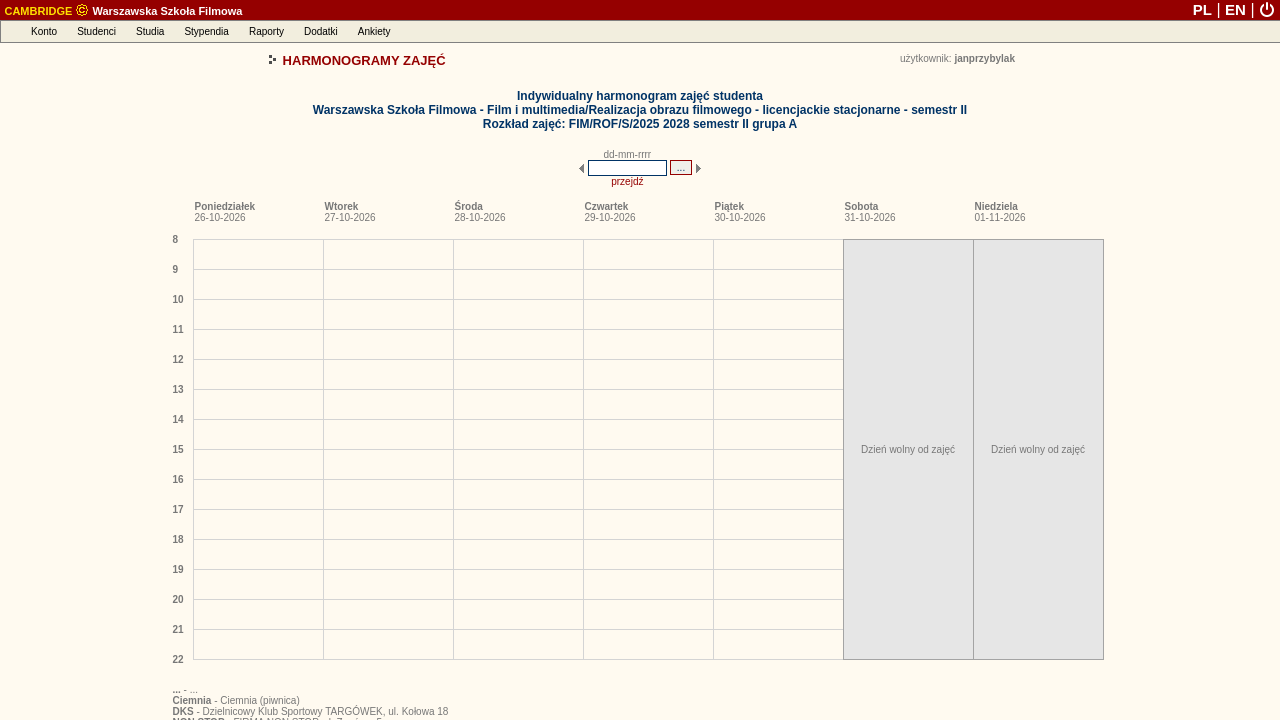
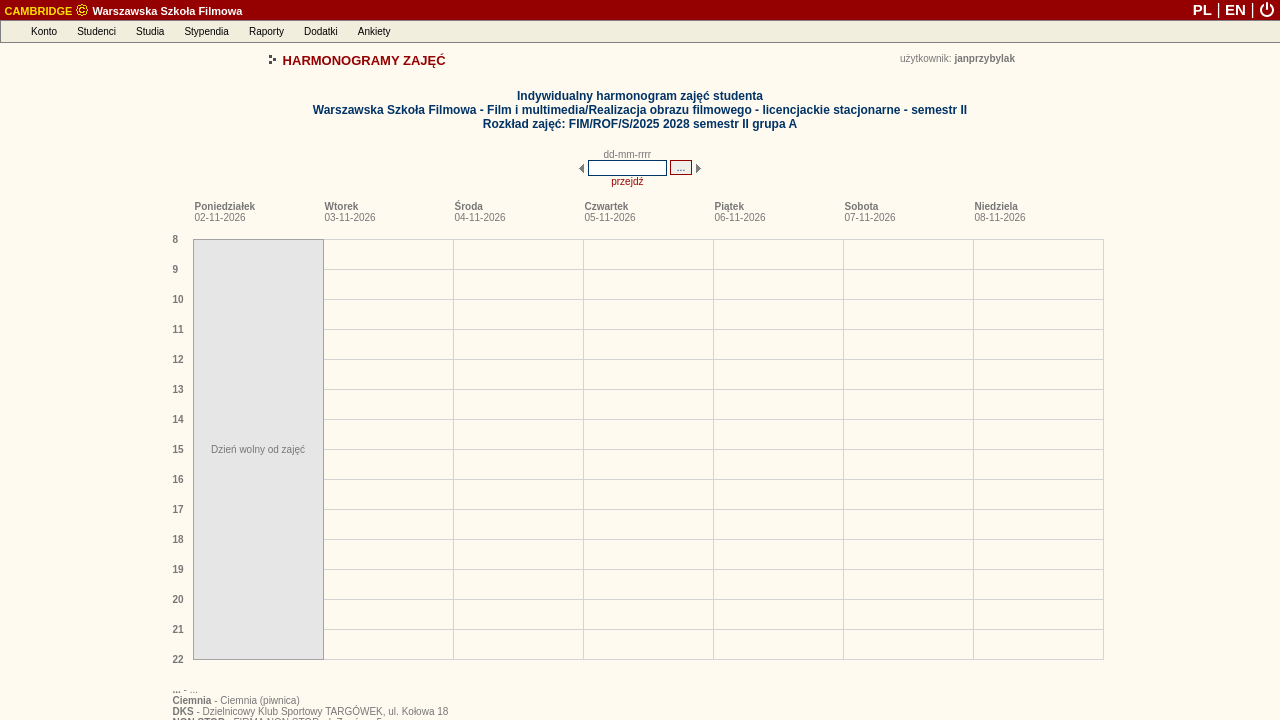
deploy: 8388f10947971c2f889917b94371ad6a4cd86213

Changed region(s): [[0.6562, 0.3056, 0.875, 0.9167], [0.125, 0.3056, 0.25, 0.9167]]

diff --git a/debug_harmonogram_page.html b/debug_harmonogram_page.html
@@ -163,8 +163,8 @@
 
 
 
-<link rel="stylesheet" type="text/css" href="/palio/html.run?_Instance=cambridge&amp;_PageID=4&amp;_SessionID=1731044&amp;_SessionKey=1998233235&amp;ZoomView=&amp;DisplayMode=&amp;_CheckSum=-1387384979">
-<script language="javascript" type="text/javascript" src="/palio/html.run?_Instance=cambridge&amp;_PageID=5&amp;_SessionID=1731044&amp;_SessionKey=1998233235&amp;_CheckSum=1123203707"></script>
+<link rel="stylesheet" type="text/css" href="/palio/html.run?_Instance=cambridge&amp;_PageID=4&amp;_SessionID=1731128&amp;_SessionKey=2104638572&amp;ZoomView=&amp;DisplayMode=&amp;_CheckSum=-1321546283">
+<script language="javascript" type="text/javascript" src="/palio/html.run?_Instance=cambridge&amp;_PageID=5&amp;_SessionID=1731128&amp;_SessionKey=2104638572&amp;_CheckSum=909789459"></script>
 
 
 
@@ -354,9 +354,9 @@ CambridgeMenuBar = new jsDOMenuBar("absolute", true)
 
 AccountMenu=new jsDOMenu(200, "", "absolute", false);
 
-AccountMenu.addMenuItem(new menuItem("Zmiana hasła", "", "/palio/html.run?_Instance=cambridge&amp;_PageID=11&amp;_SessionID=1731044&amp;_SessionKey=1998233235&amp;_CheckSum=-1142729748"));
+AccountMenu.addMenuItem(new menuItem("Zmiana hasła", "", "/palio/html.run?_Instance=cambridge&amp;_PageID=11&amp;_SessionID=1731128&amp;_SessionKey=2104638572&amp;_CheckSum=-1356143996"));
 
-  AccountMenu.addMenuItem(new menuItem("Komunikator", "", "/palio/html.run?_Instance=cambridge&amp;_PageID=180&amp;_SessionID=1731044&amp;_SessionKey=1998233235&amp;_CheckSum=-1947689529"));
+  AccountMenu.addMenuItem(new menuItem("Komunikator", "", "/palio/html.run?_Instance=cambridge&amp;_PageID=180&amp;_SessionID=1731128&amp;_SessionKey=2104638572&amp;_CheckSum=2133863519"));
 
 
 
@@ -369,7 +369,7 @@ AccountMenu.addMenuItem(new menuItem("Yammer", "", "https://www.yammer.com/onlin
 
 AccountMenu.addMenuItem(new menuItem("-"));
 
-AccountMenu.addMenuItem(new menuItem("Wylogowanie", "", "https://student.szkolafilmowa.pl/palio/html.run?_Instance=cambridge&amp;_PageID=10012&amp;_Action=Logout&amp;_SessionID=1731044&amp;_SessionKey=1998233235"));
+AccountMenu.addMenuItem(new menuItem("Wylogowanie", "", "https://student.szkolafilmowa.pl/palio/html.run?_Instance=cambridge&amp;_PageID=10012&amp;_Action=Logout&amp;_SessionID=1731128&amp;_SessionKey=2104638572"));
 
 CambridgeMenuBar.addMenuBarItem(new menuBarItem("Konto", AccountMenu));
 
@@ -382,12 +382,12 @@ StudentsMenu=new jsDOMenu(320, "", "absolute", false);
 
 
 
-StudentsMenu.addMenuItem(new menuItem("Moje dane", "", "/palio/html.run?_Instance=cambridge&amp;_PageID=185&amp;_SessionID=1731044&amp;_SessionKey=1998233235&amp;_CheckSum=1284116834"));
+StudentsMenu.addMenuItem(new menuItem("Moje dane", "", "/palio/html.run?_Instance=cambridge&amp;_PageID=185&amp;_SessionID=1731128&amp;_SessionKey=2104638572&amp;_CheckSum=1070702586"));
 
 
 
 
-StudentsMenu.addMenuItem(new menuItem("Moje indeksy", "", "/palio/html.run?_Instance=cambridge&amp;_PageID=186&amp;_SessionID=1731044&amp;_SessionKey=1998233235&amp;_CheckSum=-646502271"));
+StudentsMenu.addMenuItem(new menuItem("Moje indeksy", "", "/palio/html.run?_Instance=cambridge&amp;_PageID=186&amp;_SessionID=1731128&amp;_SessionKey=2104638572&amp;_CheckSum=-859916519"));
 
 
 
@@ -426,7 +426,7 @@ StudiesMenu=new jsDOMenu(250, "", "absolute", false);
 
 
 
-StudiesMenu.addMenuItem(new menuItem("Moje plany studiów", "", "/palio/html.run?_Instance=cambridge&amp;_PageID=258&amp;_SessionID=1731044&amp;_SessionKey=1998233235&amp;_CheckSum=-952910885"));
+StudiesMenu.addMenuItem(new menuItem("Moje plany studiów", "", "/palio/html.run?_Instance=cambridge&amp;_PageID=258&amp;_SessionID=1731128&amp;_SessionKey=2104638572&amp;_CheckSum=-1166325133"));
 
 
 
@@ -434,13 +434,13 @@ StudiesMenu.addMenuItem(new menuItem("Moje plany studiów", "", "/palio/html.run
 
 
 
-StudiesMenu.addMenuItem(new menuItem("Harmonogramy zajęć", "", "/palio/html.run?_Instance=cambridge&amp;_PageID=95&amp;_SessionID=1731044&amp;_SessionKey=1998233235&amp;_CheckSum=1967527536"));
+StudiesMenu.addMenuItem(new menuItem("Harmonogramy zajęć", "", "/palio/html.run?_Instance=cambridge&amp;_PageID=95&amp;_SessionID=1731128&amp;_SessionKey=2104638572&amp;_CheckSum=1754113288"));
 
-StudiesMenu.addMenuItem(new menuItem("Harmonogramy moich zajęć", "", "/palio/html.run?_Instance=cambridge&amp;_PageID=191&amp;_SessionID=1731044&amp;_SessionKey=1998233235&amp;_CheckSum=697008551"));
+StudiesMenu.addMenuItem(new menuItem("Harmonogramy moich zajęć", "", "/palio/html.run?_Instance=cambridge&amp;_PageID=191&amp;_SessionID=1731128&amp;_SessionKey=2104638572&amp;_CheckSum=483594303"));
 
-StudiesMenu.addMenuItem(new menuItem("Harmonogramy innych zajęć", "", "/palio/html.run?_Instance=cambridge&amp;_PageID=248&amp;_SessionID=1731044&amp;_SessionKey=1998233235&amp;_CheckSum=-1233260774"));
+StudiesMenu.addMenuItem(new menuItem("Harmonogramy innych zajęć", "", "/palio/html.run?_Instance=cambridge&amp;_PageID=248&amp;_SessionID=1731128&amp;_SessionKey=2104638572&amp;_CheckSum=-1446675022"));
 
-StudiesMenu.addMenuItem(new menuItem("Harmonogramy zajętości sal", "", "/palio/html.run?_Instance=cambridge&amp;_PageID=269&amp;_SessionID=1731044&amp;_SessionKey=1998233235&amp;_CheckSum=1691787195"));
+StudiesMenu.addMenuItem(new menuItem("Harmonogramy zajętości sal", "", "/palio/html.run?_Instance=cambridge&amp;_PageID=269&amp;_SessionID=1731128&amp;_SessionKey=2104638572&amp;_CheckSum=1478372947"));
 
 
 
@@ -470,9 +470,9 @@ CambridgeMenuBar.addMenuBarItem(new menuBarItem("Studia", StudiesMenu));
 ScholarshipsMenu=new jsDOMenu(230, "", "absolute", false);
 
 
-ScholarshipsMenu.addMenuItem(new menuItem("Moje stypendia", "", "/palio/html.run?_Instance=cambridge&amp;_PageID=187&amp;_SessionID=1731044&amp;_SessionKey=1998233235&amp;_CheckSum=1717845920"));
+ScholarshipsMenu.addMenuItem(new menuItem("Moje stypendia", "", "/palio/html.run?_Instance=cambridge&amp;_PageID=187&amp;_SessionID=1731128&amp;_SessionKey=2104638572&amp;_CheckSum=1504431672"));
 
-ScholarshipsMenu.addMenuItem(new menuItem("Mój numer rachunku", "", "/palio/html.run?_Instance=cambridge&amp;_PageID=380&amp;_SessionID=1731044&amp;_SessionKey=1998233235&amp;_CheckSum=-1745865595"));
+ScholarshipsMenu.addMenuItem(new menuItem("Mój numer rachunku", "", "/palio/html.run?_Instance=cambridge&amp;_PageID=380&amp;_SessionID=1731128&amp;_SessionKey=2104638572&amp;_CheckSum=-1959279843"));
 
 
 
@@ -482,9 +482,9 @@ ScholarshipsMenu.addMenuItem(new menuItem("Mój numer rachunku", "", "/palio/htm
 ScholarshipsMenu.addMenuItem(new menuItem("-"));
 
 
-ScholarshipsMenu.addMenuItem(new menuItem("Fundusze stypendialne", "", "/palio/html.run?_Instance=cambridge&amp;_PageID=54&amp;_SessionID=1731044&amp;_SessionKey=1998233235&amp;_CheckSum=-1518220211"));
+ScholarshipsMenu.addMenuItem(new menuItem("Fundusze stypendialne", "", "/palio/html.run?_Instance=cambridge&amp;_PageID=54&amp;_SessionID=1731128&amp;_SessionKey=2104638572&amp;_CheckSum=-1731634459"));
 
-ScholarshipsMenu.addMenuItem(new menuItem("Rodzaje stypendiów", "", "/palio/html.run?_Instance=cambridge&amp;_PageID=55&amp;_SessionID=1731044&amp;_SessionKey=1998233235&amp;_CheckSum=846127980"));
+ScholarshipsMenu.addMenuItem(new menuItem("Rodzaje stypendiów", "", "/palio/html.run?_Instance=cambridge&amp;_PageID=55&amp;_SessionID=1731128&amp;_SessionKey=2104638572&amp;_CheckSum=632713732"));
 
 
 
@@ -495,7 +495,7 @@ CambridgeMenuBar.addMenuBarItem(new menuBarItem("Stypendia", ScholarshipsMenu));
 ReportsMenu=new jsDOMenu(200, "", "absolute", false);
 
 
-ReportsMenu.addMenuItem(new menuItem("Generowanie raportów", "", "/palio/html.run?_Instance=cambridge&amp;_PageID=68&amp;_SessionID=1731044&amp;_SessionKey=1998233235&amp;_CheckSum=-370412150"));
+ReportsMenu.addMenuItem(new menuItem("Generowanie raportów", "", "/palio/html.run?_Instance=cambridge&amp;_PageID=68&amp;_SessionID=1731128&amp;_SessionKey=2104638572&amp;_CheckSum=-583826398"));
 
 
 
@@ -505,7 +505,7 @@ CambridgeMenuBar.addMenuBarItem(new menuBarItem("Raporty", ReportsMenu));
 
 AdditionalsMenu=new jsDOMenu(200, "", "absolute", false);
 
-AdditionalsMenu.addMenuItem(new menuItem("Forum internetowe", "", "/palio/html.run?_Instance=cambridge&amp;_PageID=8001&amp;_SessionID=1731044&amp;_SessionKey=1998233235&amp;_CheckSum=-1113975373"));
+AdditionalsMenu.addMenuItem(new menuItem("Forum internetowe", "", "/palio/html.run?_Instance=cambridge&amp;_PageID=8001&amp;_SessionID=1731128&amp;_SessionKey=2104638572&amp;_CheckSum=-1327389621"));
 
 
 
@@ -539,7 +539,7 @@ PollsMenu=new jsDOMenu(225, "", "absolute", false);
 
 
 
-PollsMenu.addMenuItem(new menuItem("Wypełnianie ankiet", "", "/palio/html.run?_Instance=cambridge&amp;_PageID=227&amp;_SessionID=1731044&amp;_SessionKey=1998233235&amp;_CheckSum=136658553"));
+PollsMenu.addMenuItem(new menuItem("Wypełnianie ankiet", "", "/palio/html.run?_Instance=cambridge&amp;_PageID=227&amp;_SessionID=1731128&amp;_SessionKey=2104638572&amp;_CheckSum=-76755695"));
 
 
 CambridgeMenuBar.addMenuBarItem(new menuBarItem("Ankiety", PollsMenu));
@@ -576,7 +576,7 @@ CambridgeMenuBar.moveTo(0,20);
 <table width="100%" border="0" cellspacing="0" cellpadding="0" align="center">
 <tbody><tr class="top_belt">
 
-<td align="left" height="20"><b>&nbsp;<a class="belt" href="/palio/html.run?_Instance=cambridge&amp;_PageID=6&amp;_SessionID=1731044&amp;_SessionKey=1998233235&amp;_CheckSum=-807415398"><span class="belt_application">CAMBRIDGE</span> <img src="/palio/html.media?_Instance=cambridge&amp;_Option=Palio&amp;_ID=51&amp;_CheckSum=684598873" width="14" height="14" border="0" style="position:relative;top:-2px;vertical-align:bottom"> Warszawska Szkoła Filmowa</a></b></td>
+<td align="left" height="20"><b>&nbsp;<a class="belt" href="/palio/html.run?_Instance=cambridge&amp;_PageID=6&amp;_SessionID=1731128&amp;_SessionKey=2104638572&amp;_CheckSum=-1020829646"><span class="belt_application">CAMBRIDGE</span> <img src="/palio/html.media?_Instance=cambridge&amp;_Option=Palio&amp;_ID=51&amp;_CheckSum=684598873" width="14" height="14" border="0" style="position:relative;top:-2px;vertical-align:bottom"> Warszawska Szkoła Filmowa</a></b></td>
 <td align="right">
 
 
@@ -587,13 +587,13 @@ CambridgeMenuBar.moveTo(0,20);
 
 
 
-<a href="/palio/html.run?_Instance=cambridge&amp;_PageID=6&amp;_SessionID=1731044&amp;_SessionKey=1998233235&amp;SetLanguage=pl&amp;_CheckSum=799066688" class="belt" style="font-size:15px;line-height:18px;text-decoration:none" title="polski"><b>PL</b></a>
+<a href="/palio/html.run?_Instance=cambridge&amp;_PageID=6&amp;_SessionID=1731128&amp;_SessionKey=2104638572&amp;SetLanguage=pl&amp;_CheckSum=502908072" class="belt" style="font-size:15px;line-height:18px;text-decoration:none" title="polski"><b>PL</b></a>
 <span class="belt" style="font-size:16px">|</span>
-<a href="/palio/html.run?_Instance=cambridge&amp;_PageID=6&amp;_SessionID=1731044&amp;_SessionKey=1998233235&amp;SetLanguage=en&amp;_CheckSum=-1603117325" class="belt" style="font-size:15px;line-height:18px;text-decoration:none" title="english"><b>EN</b></a>
+<a href="/palio/html.run?_Instance=cambridge&amp;_PageID=6&amp;_SessionID=1731128&amp;_SessionKey=2104638572&amp;SetLanguage=en&amp;_CheckSum=-1899275941" class="belt" style="font-size:15px;line-height:18px;text-decoration:none" title="english"><b>EN</b></a>
 <span class="belt" style="font-size:16px">|</span>
 
 
-<img src="/palio/html.media?_Instance=cambridge&amp;_Option=Palio&amp;_ID=94&amp;_CheckSum=-1316787974" style="cursor:pointer;vertical-align:bottom;margin-bottom:2px;margin-right:5px" alt="Wyloguj" title="Wyloguj" onclick="if(confirm('Czy na pewno chcesz się wylogować?'))window.location='https://student.szkolafilmowa.pl/palio/html.run?_Instance=cambridge&amp;_PageID=10012&amp;_Action=Logout&amp;_SessionID=1731044&amp;_SessionKey=1998233235'">
+<img src="/palio/html.media?_Instance=cambridge&amp;_Option=Palio&amp;_ID=94&amp;_CheckSum=-1316787974" style="cursor:pointer;vertical-align:bottom;margin-bottom:2px;margin-right:5px" alt="Wyloguj" title="Wyloguj" onclick="if(confirm('Czy na pewno chcesz się wylogować?'))window.location='https://student.szkolafilmowa.pl/palio/html.run?_Instance=cambridge&amp;_PageID=10012&amp;_Action=Logout&amp;_SessionID=1731128&amp;_SessionKey=2104638572'">
 </td>
 
 </tr>
@@ -2351,16 +2351,16 @@ document.schedule_scroll_form.submit();
 }
 function goForward()
 {
-document.schedule_scroll_form._firstDayOfWeek.value = '02-11-2026';
+document.schedule_scroll_form._firstDayOfWeek.value = '09-11-2026';
 document.schedule_scroll_form.submit();
 }
 function goBackward()
 {
-document.schedule_scroll_form._firstDayOfWeek.value = '24-10-2026';
+document.schedule_scroll_form._firstDayOfWeek.value = '31-10-2026';
 document.schedule_scroll_form.submit();
 }
 </script>
-<form method="post" name="schedule_scroll_form" id="schedule_scroll_form" action="/palio/html.run?_Instance=cambridge&amp;_PageID=191&amp;_SessionID=1731044&amp;_SessionKey=1998233235&amp;_RowID=7265&amp;_RowIDType=I&amp;_CheckSum=376208026" onsubmit="return checkFrm_schedule_scroll_form(this)">
+<form method="post" name="schedule_scroll_form" id="schedule_scroll_form" action="/palio/html.run?_Instance=cambridge&amp;_PageID=191&amp;_SessionID=1731128&amp;_SessionKey=2104638572&amp;_RowID=7265&amp;_RowIDType=I&amp;_CheckSum=-777314558" onsubmit="return checkFrm_schedule_scroll_form(this)">
 <div style="display:none;"><input type="hidden" name="_formSubmitted" value="yes"></div>
 <input type="hidden" name="_firstDayOfWeek">
 <table cellspacing="0" cellpadding="0" border="0" align="center">
@@ -3218,22 +3218,6 @@ return true;
 
 
 
-
-
-
-
-
-
-
-
-
-
-
-
-
-
-
-
 <br>
 
 
@@ -3252,60 +3236,6 @@ return true;
 
 
 
- 
- 
- 
-
-
-
-
-
-
-
-
-
-
-
-
-
-
-
-
-
-
-
-
-
-
-
-
-
-
-
-
-
-
-
-
-
-
-
-
-
-
-
-
-
-
-
-
-
-
-
-
-
-
-
 
 
 
@@ -3385,7 +3315,6 @@ return true;
 
 
 
-  
 
 
 
@@ -3859,7 +3788,7 @@ tipDivElement.style.visibility="hidden"
 <tbody><tr><td class="font">
 <b class="font">Poniedziałek</b><br>
 
-<span class="font">26-10-2026</span>
+<span class="font">02-11-2026</span>
 </td></tr>
 </tbody></table>
 </div>
@@ -3874,7 +3803,7 @@ tipDivElement.style.visibility="hidden"
 <tbody><tr><td class="font">
 <b class="font">Wtorek</b><br>
 
-<span class="font">27-10-2026</span>
+<span class="font">03-11-2026</span>
 </td></tr>
 </tbody></table>
 </div>
@@ -3889,7 +3818,7 @@ tipDivElement.style.visibility="hidden"
 <tbody><tr><td class="font">
 <b class="font">Środa</b><br>
 
-<span class="font">28-10-2026</span>
+<span class="font">04-11-2026</span>
 </td></tr>
 </tbody></table>
 </div>
@@ -3904,7 +3833,7 @@ tipDivElement.style.visibility="hidden"
 <tbody><tr><td class="font">
 <b class="font">Czwartek</b><br>
 
-<span class="font">29-10-2026</span>
+<span class="font">05-11-2026</span>
 </td></tr>
 </tbody></table>
 </div>
@@ -3919,7 +3848,7 @@ tipDivElement.style.visibility="hidden"
 <tbody><tr><td class="font">
 <b class="font">Piątek</b><br>
 
-<span class="font">30-10-2026</span>
+<span class="font">06-11-2026</span>
 </td></tr>
 </tbody></table>
 </div>
@@ -3934,7 +3863,7 @@ tipDivElement.style.visibility="hidden"
 <tbody><tr><td class="font">
 <b class="font">Sobota</b><br>
 
-<span class="font">31-10-2026</span>
+<span class="font">07-11-2026</span>
 </td></tr>
 </tbody></table>
 </div>
@@ -3949,7 +3878,7 @@ tipDivElement.style.visibility="hidden"
 <tbody><tr><td class="font">
 <b class="font">Niedziela</b><br>
 
-<span class="font">01-11-2026</span>
+<span class="font">08-11-2026</span>
 </td></tr>
 </tbody></table>
 </div>
@@ -3975,35 +3904,7 @@ tipDivElement.style.visibility="hidden"
 <div style="
 position:absolute;
 top:0;
-left:800;
-width:129;
-height:419.00;
-layer-background-color:#E6E6E6;
-background-color:#E6E6E6;
-border:1px solid #A4A4A4;
-z-index:0;">
-<table cellspacing="0" cellpadding="0" align="center" width="129">
-<tbody><tr><td width="129" align="center" class="font" valign="middle" height="419.00">Dzień wolny od zajęć</td></tr>
-</tbody></table>
-</div>
-
-
-
-
-
-
-
-
-
-
-
-
-
-
-<div style="
-position:absolute;
-top:0;
-left:670;
+left:20;
 width:129;
 height:419.00;
 layer-background-color:#E6E6E6;
@@ -4040,8 +3941,8 @@ z-index:0;">
 <td align="right">
 <table cellspacing="0" cellpadding="2" border="0">
 <tbody><tr>
-<td valign="middle"><a class="link" href="/palio/html.run?_Instance=cambridge&amp;_PageID=96&amp;_SessionID=1731044&amp;_SessionKey=1998233235&amp;_RowID=7265&amp;_RowIDType=I&amp;_firstDayOfWeek=26-10-2026&amp;_CheckSum=629660185" target="_blank">drukuj</a></td>
-<td valign="middle"><a class="link" href="/palio/html.run?_Instance=cambridge&amp;_PageID=96&amp;_SessionID=1731044&amp;_SessionKey=1998233235&amp;_RowID=7265&amp;_RowIDType=I&amp;_firstDayOfWeek=26-10-2026&amp;_CheckSum=629660185" target="_blank"><img src="/palio/html.media?_Instance=cambridge&amp;_Option=Palio&amp;_ID=26&amp;_CheckSum=1936112049" awidth="16" height="14" alt="drukuj" title="drukuj" border="0"></a></td>
+<td valign="middle"><a class="link" href="/palio/html.run?_Instance=cambridge&amp;_PageID=96&amp;_SessionID=1731128&amp;_SessionKey=2104638572&amp;_RowID=7265&amp;_RowIDType=I&amp;_firstDayOfWeek=02-11-2026&amp;_CheckSum=-2047444044" target="_blank">drukuj</a></td>
+<td valign="middle"><a class="link" href="/palio/html.run?_Instance=cambridge&amp;_PageID=96&amp;_SessionID=1731128&amp;_SessionKey=2104638572&amp;_RowID=7265&amp;_RowIDType=I&amp;_firstDayOfWeek=02-11-2026&amp;_CheckSum=-2047444044" target="_blank"><img src="/palio/html.media?_Instance=cambridge&amp;_Option=Palio&amp;_ID=26&amp;_CheckSum=1936112049" awidth="16" height="14" alt="drukuj" title="drukuj" border="0"></a></td>
 </tr>
 </tbody></table>
 </td>
@@ -4073,7 +3974,7 @@ z-index:0;">
 
 
 
-<input type="button" name="jump_action" value="Powrót do listy harmonogramów zajęć" class="button" onclick="window.location='/palio/html.run?_Instance=cambridge&amp;_PageID=191&amp;_SessionID=1731044&amp;_SessionKey=1998233235&amp;_CheckSum=697008551'">
+<input type="button" name="jump_action" value="Powrót do listy harmonogramów zajęć" class="button" onclick="window.location='/palio/html.run?_Instance=cambridge&amp;_PageID=191&amp;_SessionID=1731128&amp;_SessionKey=2104638572&amp;_CheckSum=483594303'">
 
 
 
@@ -4098,7 +3999,7 @@ z-index:0;">
 grayscaleImagesIE10Plus();
 </script>
 
-<p align="right" class="font"><i style="color:#aaaaaa">Czas generowania strony 124 ms</i></p>
+<p align="right" class="font"><i style="color:#aaaaaa">Czas generowania strony 141 ms</i></p>
 
 
 </body></html>
